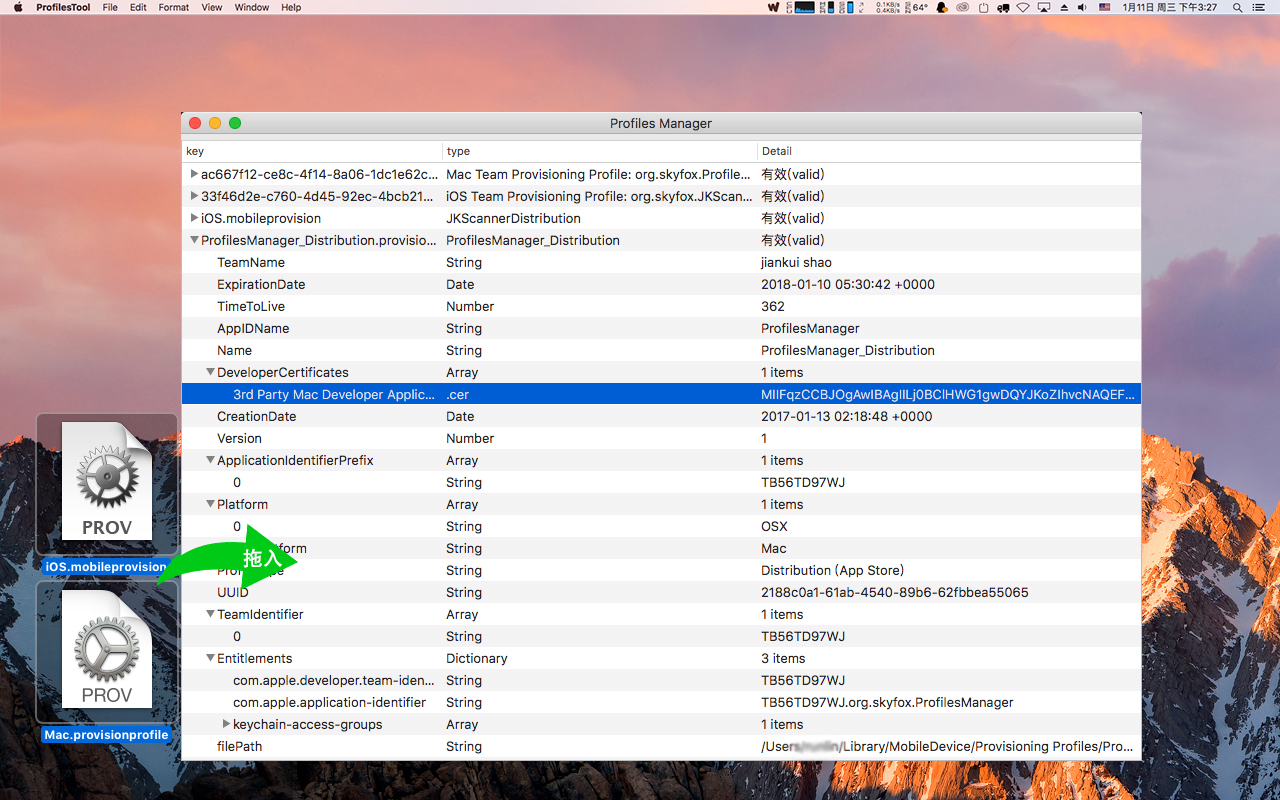
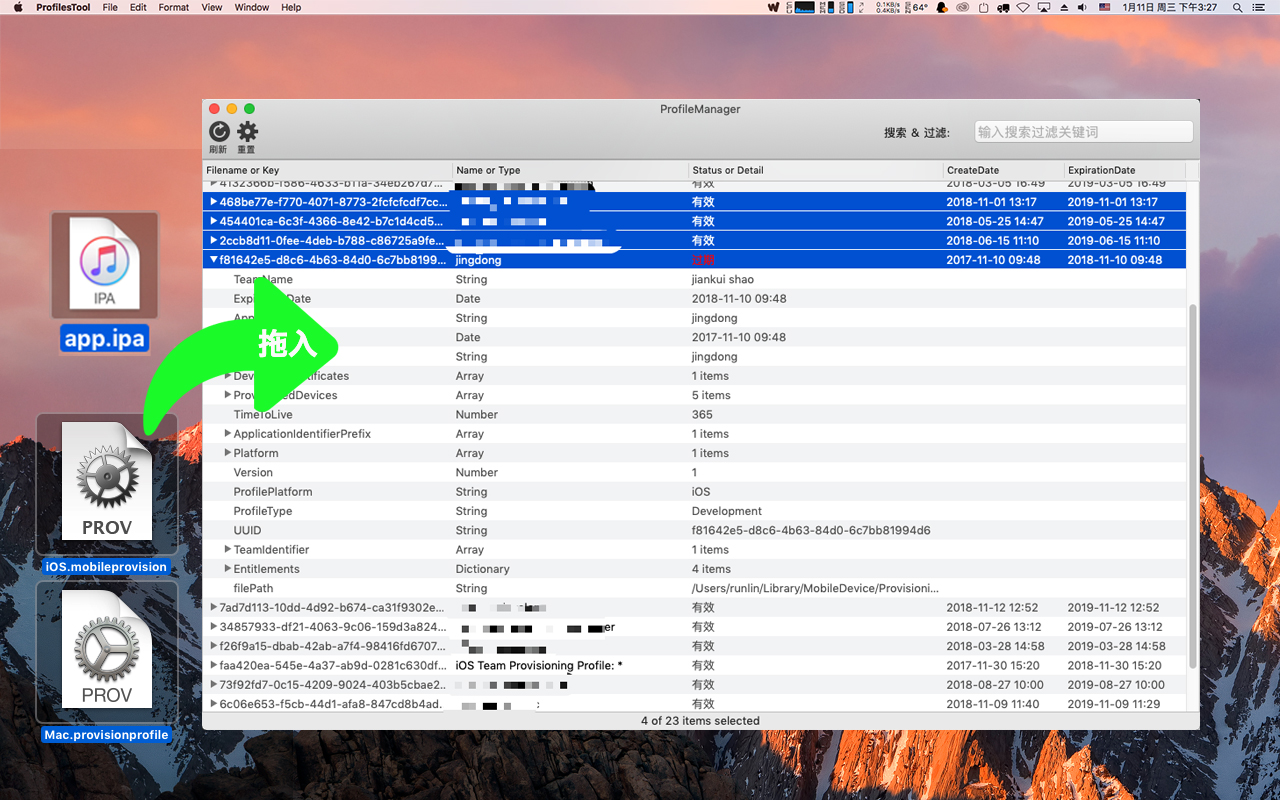
multi-select opration

Changed region(s): [[0.0, 0.125, 0.9375, 0.9688]]

diff --git a/ProfilesManager/Controller/ProfilesManagerViewController.m b/ProfilesManager/Controller/ProfilesManagerViewController.m
@@ -27,6 +27,21 @@ static NSString *kColumnIdentifierExpirationDate = @"expirationDate";
 static NSString *kColumnIdentifierCreateDate = @"creationDate";
 
 @implementation ProfilesManagerViewController
+//获取sandbox之外的路径
+NSString *RealHomeDirectory() {
+    //    struct passwd *pw = getpwuid(getuid());
+    //    assert(pw);
+    //    return [NSString stringWithUTF8String:pw->pw_dir];
+    //
+    NSString *home = NSHomeDirectory();
+    NSArray *pathArray = [home componentsSeparatedByString:@"/"];
+    NSString *absolutePath;
+    if ([pathArray count] > 2) {
+        absolutePath = [NSString stringWithFormat:@"/%@/%@", [pathArray objectAtIndex:1], [pathArray objectAtIndex:2]];
+    }
+    return absolutePath;
+}
+
 
 - (void)viewDidLoad {
     [super viewDidLoad];
@@ -39,6 +54,7 @@ static NSString *kColumnIdentifierCreateDate = @"creationDate";
     //    [self.treeView sizeLastColumnToFit];
     //app第一次运行Column 最后一行自动宽等比增减，否则会有滚动条
     [self.treeView sizeToFit];
+    self.treeView.allowsMultipleSelection = YES;
     
     [self loadProfileFilesWithSearchWord:_searchWord];
     //drag file
@@ -63,20 +79,6 @@ static NSString *kColumnIdentifierCreateDate = @"creationDate";
     }];
     
 }
-//获取sandbox之外的路径
-NSString *RealHomeDirectory() {
-    //    struct passwd *pw = getpwuid(getuid());
-    //    assert(pw);
-    //    return [NSString stringWithUTF8String:pw->pw_dir];
-    //
-    NSString *home = NSHomeDirectory();
-    NSArray *pathArray = [home componentsSeparatedByString:@"/"];
-    NSString *absolutePath;
-    if ([pathArray count] > 2) {
-        absolutePath = [NSString stringWithFormat:@"/%@/%@", [pathArray objectAtIndex:1], [pathArray objectAtIndex:2]];
-    }
-    return absolutePath;
-}
 
 - (void)loadProfileFilesWithSearchWord:(NSString*)searchWord {
     _searchWord = searchWord;
@@ -99,19 +101,19 @@ NSString *RealHomeDirectory() {
             }
         }
     }
-    
     ProfilesNode *node = [[ProfilesNode alloc]initWithRootNode:nil originInfo:provisions key:@"Mobile Provisions"];
     _rootNode = node;
     [self.treeView reloadData];
-    
+    [self updateStatus];
+
     for (NSTableColumn *tableColumn in self.treeView.tableColumns ) {
         NSSortDescriptor *sortStates = [NSSortDescriptor sortDescriptorWithKey:tableColumn.identifier
-                     ascending:NO comparator:^(id obj1, id obj2) {
-                         return [obj1 compare:obj2];
-                    }];
+                                                                     ascending:NO comparator:^(id obj1, id obj2) {
+                                                                         return [obj1 compare:obj2];
+                                                                     }];
         [tableColumn setSortDescriptorPrototype:sortStates];
     }
-   
+    
 }
 
 
@@ -157,17 +159,18 @@ NSString *RealHomeDirectory() {
 
 - (BOOL)outlineView:(NSOutlineView *)outlineView shouldSelectItem:(id)item{
     NSInteger selectedRow = [outlineView clickedRow];
-//    [outlineView setNeedsDisplayInRect:[outlineView rectOfRow:selectedRow]];
+    //    [outlineView setNeedsDisplayInRect:[outlineView rectOfRow:selectedRow]];
     NSLog(@"select is %zd",selectedRow);
     return YES;
 }
 
 - (void)outlineView:(NSOutlineView *)outlineView willDisplayCell:(NSTextFieldCell*)cell forTableColumn:(NSTableColumn *)tableColumn item:(id)item {
-   
+    
     ProfilesNode *realItem = item ?: _rootNode;
-
+    
     if ([outlineView parentForItem:item] == nil)
     {
+        
         if ([[tableColumn identifier] isEqualToString:kColumnIdentifierType]) {
             cell.textColor = [NSColor blackColor];
         }else{
@@ -188,7 +191,18 @@ NSString *RealHomeDirectory() {
             [cell setMenu:nil];
         }
     }
-   
+    
+    if(cell.highlighted){
+        if ([[tableColumn identifier] isEqualToString:kColumnIdentifierDetal]) {
+            if ([realItem.detail isEqualToString:@"Expired"] ||[realItem.detail isEqualToString:@"过期"] ) {
+                cell.textColor = [NSColor redColor];
+            }else{
+                cell.textColor = [NSColor whiteColor];
+            }
+        }else{
+            cell.textColor = [NSColor whiteColor];
+        }
+    }
 }
 
 
@@ -213,10 +227,12 @@ NSString *RealHomeDirectory() {
     //    sortedArray = [currChildren sortedArrayUsingDescriptors:sortDescriptors];
     //    _rootNode.childrenNodes = sortedArray;
     //    [outlineView reloadData];
-//}
-
+    //}
+    
 }
-
+- (void)outlineViewSelectionDidChange:(NSNotification *)notification{
+    [self updateStatus];
+}
 #pragma mark -
 #pragma mark NSMenuDelegate
 - (void)rightMouseDown:(NSEvent *)theEvent {
@@ -257,7 +273,7 @@ NSString *RealHomeDirectory() {
         NSMenuItem *gotoItemName = [menu itemWithTag:1002];
         if (!gotoItemName)
         {
-            gotoItemName = [[NSMenuItem alloc] initWithTitle:JKLocalizedString(@"Show in Finder",nil) action:@selector(gotoClick:) keyEquivalent:@""];
+            gotoItemName = [[NSMenuItem alloc] initWithTitle:JKLocalizedString(@"Show in Finder",nil) action:@selector(showInFinder:) keyEquivalent:@""];
             [gotoItemName setTarget:self];
             [gotoItemName setTag:1002];
             [menu addItem:gotoItemName];
@@ -286,14 +302,14 @@ NSString *RealHomeDirectory() {
             [exportItem setTag:1003];
             [menu addItem:exportItem];
         }
-//        NSMenuItem *renameItem = [menu itemWithTag:1004];
-//        if (!renameItem)
-//        {
-//            renameItem = [[NSMenuItem alloc] initWithTitle:JKLocalizedString(@"Beautify Filename",nil) action:@selector(renameItemClick:) keyEquivalent:@""];
-//            [renameItem setTarget:self];
-//            [renameItem setTag:1004];
-//            [menu addItem:renameItem];
-//        }
+        //        NSMenuItem *renameItem = [menu itemWithTag:1004];
+        //        if (!renameItem)
+        //        {
+        //            renameItem = [[NSMenuItem alloc] initWithTitle:JKLocalizedString(@"Beautify Filename",nil) action:@selector(renameItemClick:) keyEquivalent:@""];
+        //            [renameItem setTarget:self];
+        //            [renameItem setTag:1004];
+        //            [menu addItem:renameItem];
+        //        }
     }
     if(menu == _mainMenu){
         NSMenuItem *refreshItem = [menu itemWithTag:2000];
@@ -327,43 +343,93 @@ NSString *RealHomeDirectory() {
 
 #pragma mark -
 #pragma mark Operation
+- (void)updateStatus{
+    if([self selectedRowIndexes].count >0){
+        self.statusLabel.stringValue = [NSString stringWithFormat:@"%@ of %@ items selected",[@([self selectedRowIndexes].count) stringValue],[@([_rootNode.childrenNodes count]) stringValue]];
+    }else{
+        self.statusLabel.stringValue = [NSString stringWithFormat:@"%@ items",[@([_rootNode.childrenNodes count]) stringValue]];
+    }
+}
+- (NSIndexSet *)selectedRowIndexes{
+    NSIndexSet *selectedRowIndexes = [self.treeView selectedRowIndexes];
+    //多选
+    if (selectedRowIndexes.count == 0) {
+        //直接右键
+        NSInteger index = [self.treeView clickedRow];
+        if (index >-1){
+            selectedRowIndexes = [NSIndexSet indexSetWithIndex:index];
+        }
+    }
+    return selectedRowIndexes;
+}
+- (NSArray *)activateFileURLs{
+    NSArray *selectedItems = [_rootNode.childrenNodes objectsAtIndexes:[self selectedRowIndexes]];
+    NSMutableArray *activateFileURLs = [NSMutableArray array];
+    for (ProfilesNode *node in selectedItems) {
+        if ([node.filePath length] > 0)
+        {
+            [activateFileURLs addObject:[NSURL fileURLWithPath:node.filePath]];
+        }
+    }
+    return activateFileURLs;
+}
 - (void)deleteItemClick:(id)sender
 {
-    NSInteger index = [self.treeView clickedRow];
-    ProfilesNode *node = [self.treeView itemAtRow:index];
+    NSIndexSet *selectedRowIndexes = [self selectedRowIndexes];
+    NSArray *selectedItems = [_rootNode.childrenNodes objectsAtIndexes:selectedRowIndexes];
     
-    iAlert *alert = [iAlert alertWithTitle:[NSString stringWithFormat:@"%@,%@",JKLocalizedString(@"Confirm Delete Opration",nil),node.type] message:JKLocalizedString(@"Delete this profie item permanently,can't rollback!",nil) style:NSAlertStyleWarning];
+    NSMutableArray *selectedItemNames = [NSMutableArray array];
+    for (ProfilesNode *node in selectedItems) {
+        [selectedItemNames addObject:node.type?:node.filePath];
+    }
+    
+    iAlert *alert = [iAlert alertWithTitle:JKLocalizedString(@"Are you sure delete selected items from disk? After delete operation can't rollback!",nil) message:[selectedItemNames componentsJoinedByString:@",\n"] style:NSAlertStyleWarning];
     [alert addCommonButtonWithTitle:JKLocalizedString(@"Ok", nil) handler:^(iAlertItem *item) {
-        NSLog(@"deleteItem inde%zd",index);
-        if (index == -1) return;
-        
+       
         [self.treeView beginUpdates];
-        [self.treeView removeItemsAtIndexes:[NSIndexSet indexSetWithIndex:index]  inParent:nil withAnimation:NSTableViewAnimationEffectFade];
+        [self.treeView removeItemsAtIndexes:selectedRowIndexes  inParent:nil withAnimation:NSTableViewAnimationEffectFade];
         [self.treeView endUpdates];
         
-        [self deleteProfile:node.filePath option:YES];
-//        [self loadProfileFilesWithSearchWord:_searchWord];
+        for (ProfilesNode *node in selectedItems) {
+            if([self deleteProfile:node.filePath option:YES]){
+                NSMutableArray *temp = [_rootNode.childrenNodes mutableCopy];
+                [temp removeObject:node];
+                _rootNode.childrenNodes = temp;
+            }
+        }
+        [self updateStatus];
     }];
     [alert addButtonWithTitle:JKLocalizedString(@"Cancle", nil)];
     [alert show:self.view.window];
 }
 
 - (void)moveTrashItemClick:(id)sender{
-    NSInteger index = [self.treeView clickedRow];
-    ProfilesNode *node = [self.treeView itemAtRow:index];
+    NSIndexSet *selectedRowIndexes = [self selectedRowIndexes];
+    NSArray *selectedItems = [_rootNode.childrenNodes objectsAtIndexes:selectedRowIndexes];
     
-    iAlert *alert = [iAlert alertWithTitle:JKLocalizedString(@"Warning",nil) message:JKLocalizedString(@"are you sure move item to trash?",nil) style:NSAlertStyleWarning];
+    NSMutableArray *selectedItemNames = [NSMutableArray array];
+    for (ProfilesNode *node in selectedItems) {
+        [selectedItemNames addObject:node.type?:node.filePath];
+    }
+    
+    iAlert *alert = [iAlert alertWithTitle:JKLocalizedString(@"Are you sure move selected items to trash?",nil) message:[selectedItemNames componentsJoinedByString:@",\n"] style:NSAlertStyleWarning];
+    
     [alert addCommonButtonWithTitle:JKLocalizedString(@"Ok", nil) handler:^(iAlertItem *item) {
         
-        NSLog(@"move to trash inde%zd",index);
-        if (index == -1) return;
-        
         [self.treeView beginUpdates];
-        [self.treeView removeItemsAtIndexes:[NSIndexSet indexSetWithIndex:index]  inParent:nil withAnimation:NSTableViewAnimationEffectFade];
+        [self.treeView removeItemsAtIndexes:selectedRowIndexes  inParent:nil withAnimation:NSTableViewAnimationEffectFade];
         [self.treeView endUpdates];
         
-        [self deleteProfile:node.filePath option:NO];
-        [self loadProfileFilesWithSearchWord:_searchWord];
+        for (ProfilesNode *node in selectedItems) {
+            if([self deleteProfile:node.filePath option:NO]){
+                NSMutableArray *temp = [_rootNode.childrenNodes mutableCopy];
+                [temp removeObject:node];
+                _rootNode.childrenNodes = temp;
+            }
+         }
+        [self updateStatus];
+
+//        [self loadProfileFilesWithSearchWord:_searchWord];
     }];
     
     [alert addButtonWithTitle:JKLocalizedString(@"Cancle", nil)];
@@ -371,19 +437,11 @@ NSString *RealHomeDirectory() {
 }
 
 
-//goto
-- (void)gotoClick:(id)sender
+//showInFinder
+- (void)showInFinder:(id)sender
 {
-    NSInteger index = [self.treeView clickedRow];
-    if (index == -1) return;
-    ProfilesNode *node = [self.treeView itemAtRow:index];
-    if ([node.filePath length] > 0)
-    {
-        //打开文件
-        //[[NSWorkspace sharedWorkspace] openFile:node.filePath];
-        // 打开文件夹
-        [[NSWorkspace sharedWorkspace] selectFile:node.filePath inFileViewerRootedAtPath:@""];
-    }
+    NSArray *activateFileURLs =[self activateFileURLs];
+    [[NSWorkspace sharedWorkspace] activateFileViewerSelectingURLs:activateFileURLs];
 }
 ////beautify filename
 //- (void)renameItemClick:(id)sender{
@@ -480,12 +538,11 @@ NSString *RealHomeDirectory() {
 #pragma mark --filemanager
 
 //delete and move
-- (BOOL)deleteProfile:(NSString*)filePath option:(BOOL)totle{
+- (BOOL)deleteProfile:(NSString*)filePath option:(BOOL)completely {
     NSError *error;
     BOOL result = NO;
-    if (totle) {
+    if (completely) {
         result =  [[NSFileManager defaultManager] removeItemAtPath:filePath error:&error];
-        
     }else{
         result = [[NSFileManager defaultManager] mr_moveFileAtPathToTrash:filePath error:&error];
     }

diff --git a/ProfilesManager/Controller/ProfilesManagerViewController.h b/ProfilesManager/Controller/ProfilesManagerViewController.h
@@ -24,5 +24,6 @@
     NSString *_searchWord;
 }
 @property (weak) IBOutlet DragOutlineView *treeView;
+@property (weak) IBOutlet NSTextField *statusLabel;
 - (void)loadProfileFilesWithSearchWord:(NSString*)searchWord;
 @end

diff --git a/README.md b/README.md
@@ -11,6 +11,8 @@ iOS Provisioning Profiles, .mobileprovision files manager tool for mac
 - drag into and look ipa profile or plist directly 拖入ipa快速查看描述文件与info.plist信息
 - simple full text search filter 全文搜索后过滤描述文件
 - click header sort 点击头部排序
+- multi-select opration such show in finder and delete 多选操作，例如在访达中显示和删除
+- click reset button，reset window frame and position 点击重置按钮重置window大小与位置
 
 ## Download APP
 https://github.com/shaojiankui/ProfilesManager/releases
